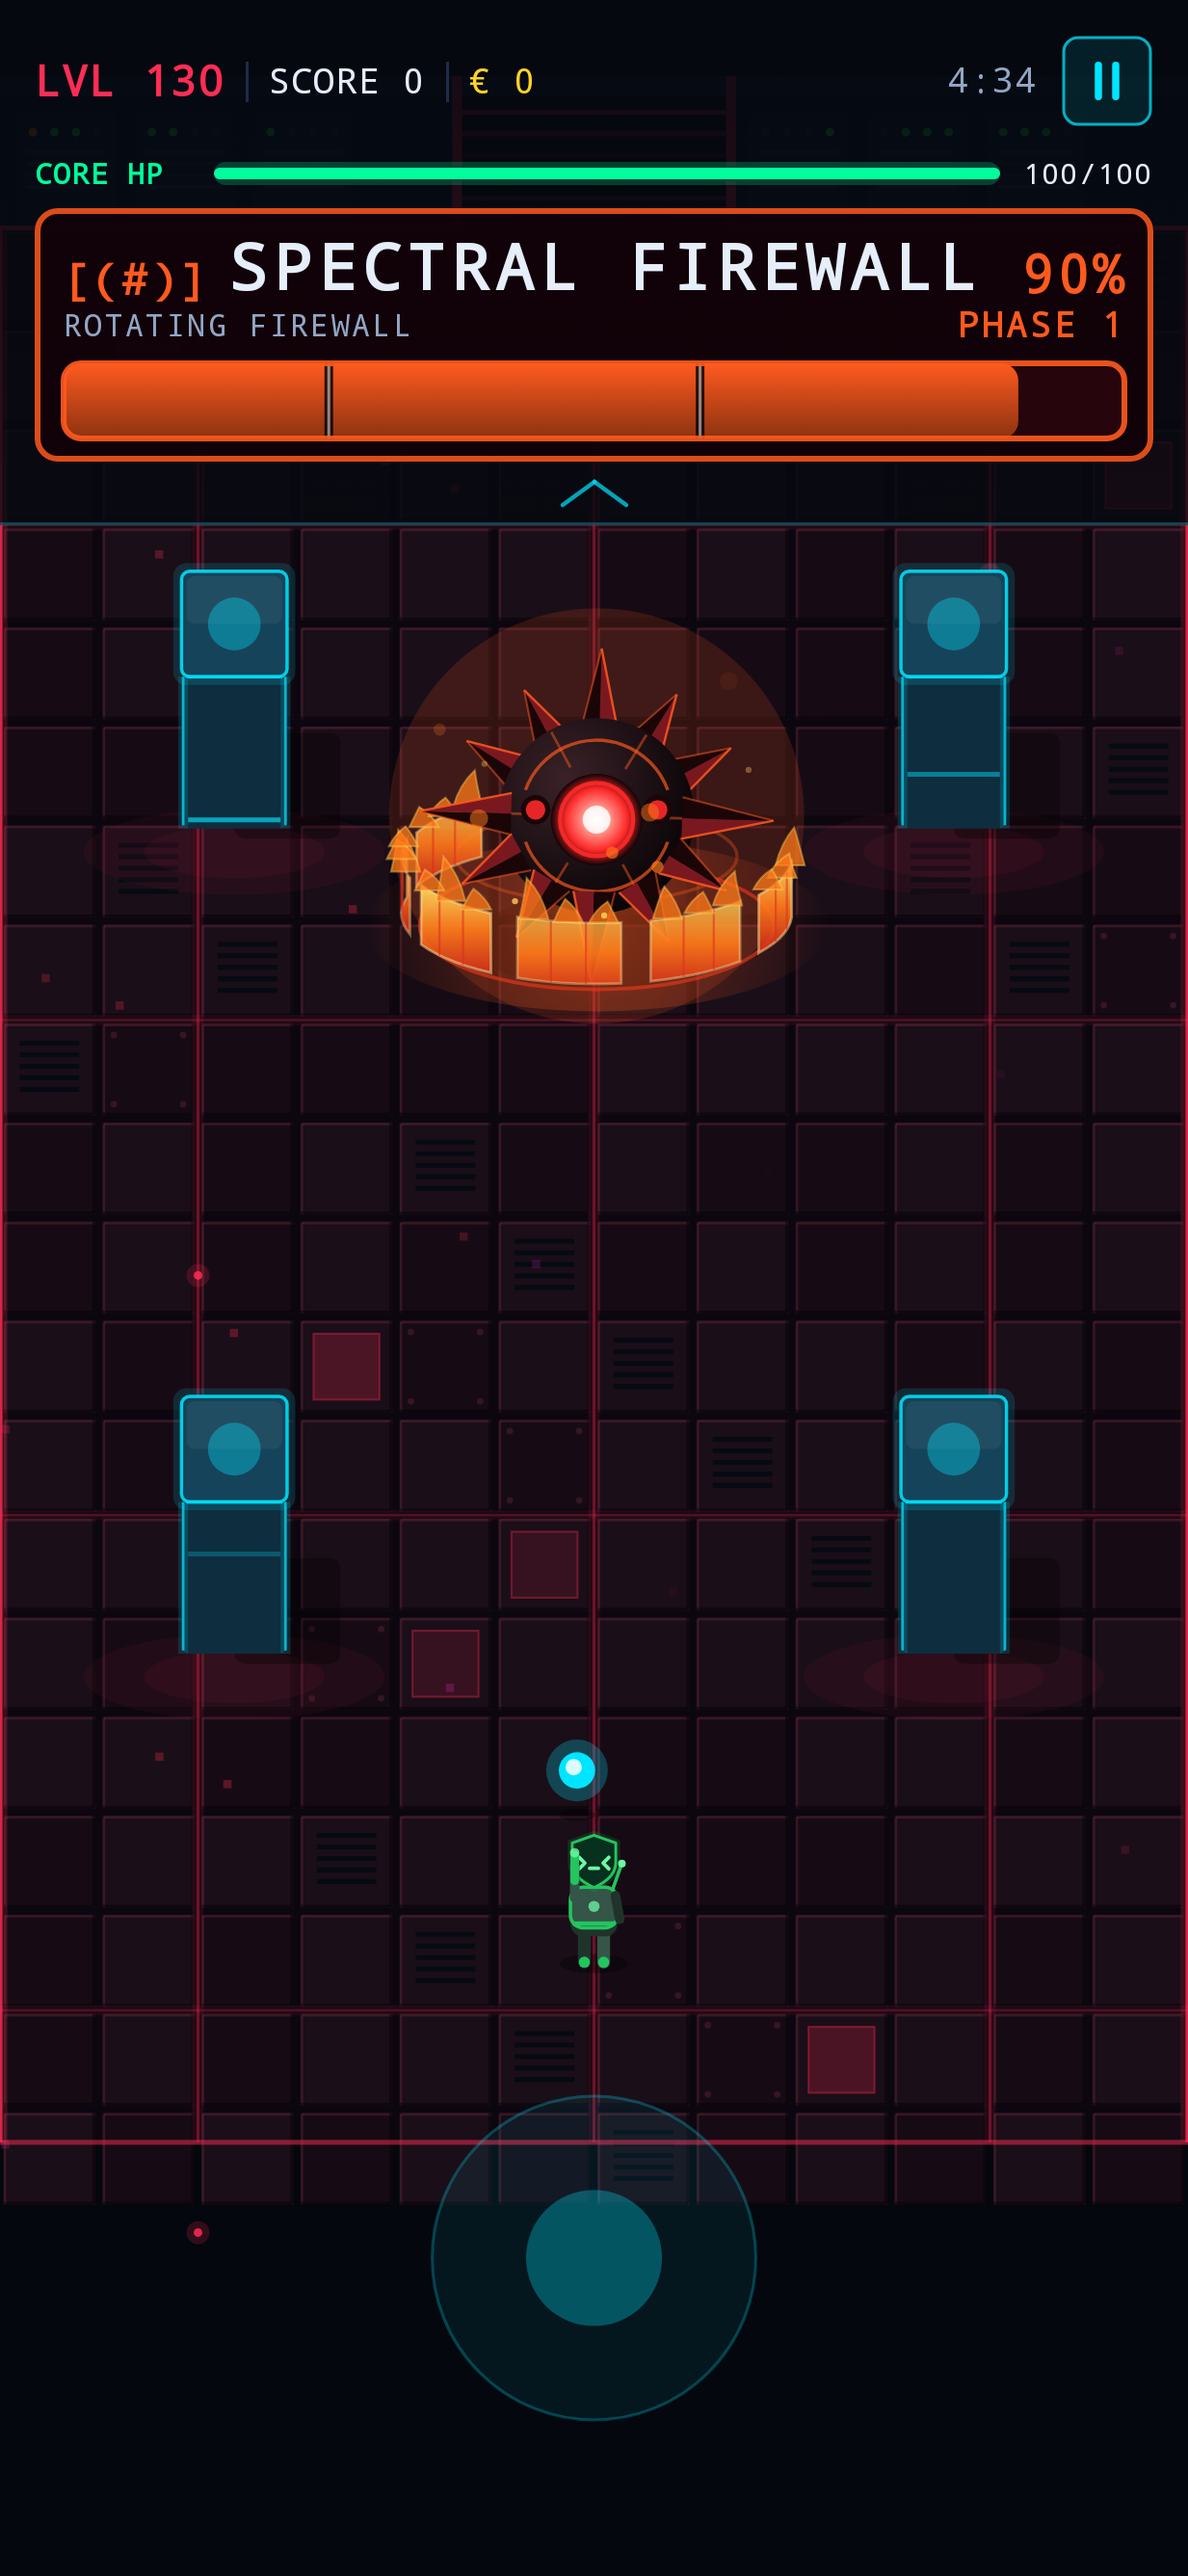
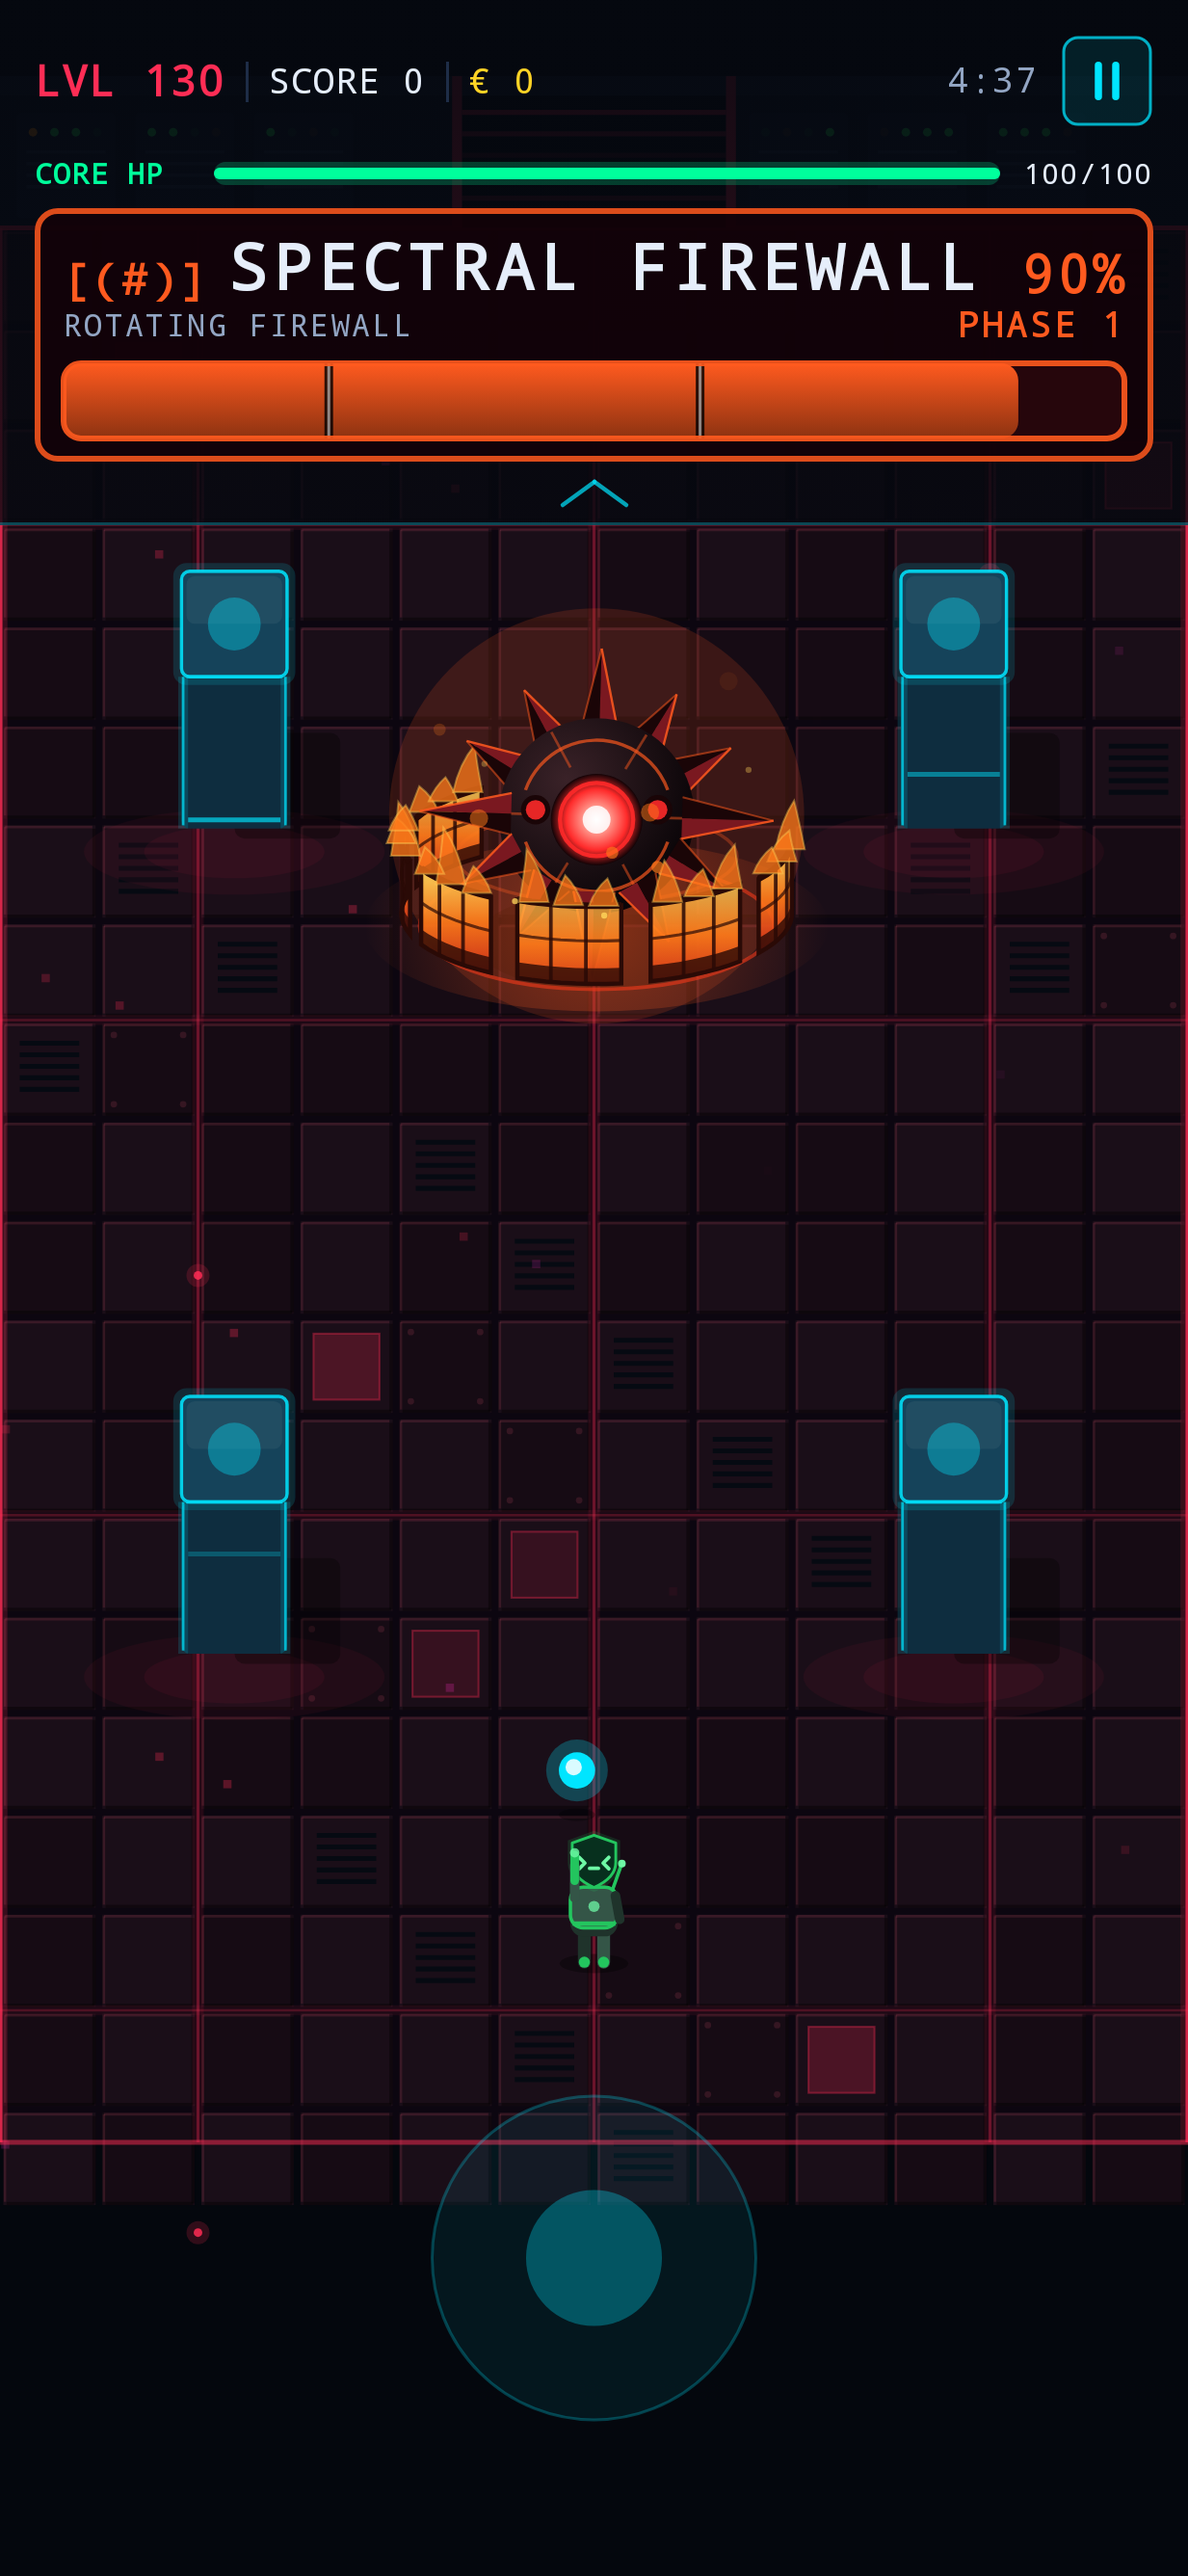
feat: Spectral Firewall revision 2 — taller firewall slabs with darker charred accents
Claude-Session: https://claude.ai/code/session_01J4fYSi9rfQR62SLnfyrDCN

Changed region(s): [[0.3082, 0.2795, 0.678, 0.4037]]

diff --git a/app/src/main/java/com/cyberoperative/game/ui/game/BossBodySpectralFirewall.kt b/app/src/main/java/com/cyberoperative/game/ui/game/BossBodySpectralFirewall.kt
@@ -26,6 +26,8 @@ internal object SpectralFirewallBody : BossBody {
     private val BRICK_HOT = Color(0xFFFFD45A)
     private val BRICK = Color(0xFFFF7A1A)
     private val BRICK_DEEP = Color(0xFFD9301A)
+    /** Charred accents on the firewall slabs. */
+    private val CHAR = Color(0xFF2A0A06)
 
     override fun DrawScope.draw(p: BossPose) {
         val r = p.radius
@@ -54,7 +56,8 @@ internal object SpectralFirewallBody : BossBody {
             val a1 = a0 + (6.283f / slots) * 0.78f
             val mid = (a0 + a1) / 2f
             if ((sin(mid) >= 0f) != front) return
-            val h = r * 0.5f * (0.85f + 0.15f * (sin(mid) + 1f) / 2f)
+            // Owner, 2026-10-10: "darker accents and be slightly taller".
+            val h = r * 0.64f * (0.85f + 0.15f * (sin(mid) + 1f) / 2f)
             val flick = 0.85f + 0.15f * sin(t * 11f + i * 2.3f)
             val n = 7
             val slab = Path()
@@ -71,14 +74,45 @@ internal object SpectralFirewallBody : BossBody {
             slab.close()
             val gy = ground - r * 0.1f + sin(mid) * ringR * squash
             drawPath(slab, Brush.verticalGradient(listOf(BRICK_HOT.copy(alpha = 0.95f * flick), BRICK.copy(alpha = 0.92f), BRICK_DEEP.copy(alpha = 0.88f)), startY = gy - h - r * 0.1f, endY = gy + r * 0.1f))
-            drawPath(slab, Color(0xFFFFE7A0).copy(alpha = 0.5f * flick), style = Stroke(1.6f))
-            // Brick seams and flames along the top edge.
+            // Charred base band along the bottom of the wall.
+            val base = Path()
+            for (k in 0..n) {
+                val a = a0 + (a1 - a0) * k / n
+                val x = p.cx + cos(a) * ringR
+                val y = ground - r * 0.1f + sin(a) * ringR * squash - h * 0.2f
+                if (k == 0) base.moveTo(x, y) else base.lineTo(x, y)
+            }
+            for (k in n downTo 0) {
+                val a = a0 + (a1 - a0) * k / n
+                base.lineTo(p.cx + cos(a) * ringR, ground - r * 0.1f + sin(a) * ringR * squash)
+            }
+            base.close()
+            drawPath(base, CHAR.copy(alpha = 0.8f))
+            // Dark mortar: vertical seams and a horizontal course line.
             for (k in 1 until 3) {
                 val a = a0 + (a1 - a0) * k / 3f
                 val x = p.cx + cos(a) * ringR
                 val yb = ground - r * 0.1f + sin(a) * ringR * squash
-                drawLine(BRICK_DEEP.copy(alpha = 0.55f), Offset(x, yb - h), Offset(x, yb), 1.3f)
+                drawLine(CHAR.copy(alpha = 0.85f), Offset(x, yb - h), Offset(x, yb), 2.2f)
             }
+            val course = Path()
+            for (k in 0..n) {
+                val a = a0 + (a1 - a0) * k / n
+                val x = p.cx + cos(a) * ringR
+                val y = ground - r * 0.1f + sin(a) * ringR * squash - h * 0.55f
+                if (k == 0) course.moveTo(x, y) else course.lineTo(x, y)
+            }
+            drawPath(course, CHAR.copy(alpha = 0.7f), style = Stroke(1.8f))
+            // Charred outline and a dark cap along the top edge.
+            drawPath(slab, CHAR, style = Stroke(2.6f))
+            val cap = Path()
+            for (k in 0..n) {
+                val a = a0 + (a1 - a0) * k / n
+                val x = p.cx + cos(a) * ringR
+                val y = ground - r * 0.1f + sin(a) * ringR * squash - h
+                if (k == 0) cap.moveTo(x, y) else cap.lineTo(x, y)
+            }
+            drawPath(cap, CHAR, style = Stroke(4f))
             for (k in 0 until 3) {
                 val a = a0 + (a1 - a0) * (k + 0.5f) / 3f
                 val x = p.cx + cos(a) * ringR

diff --git a/docs/BOSS_EXPANSION_LOG.md b/docs/BOSS_EXPANSION_LOG.md
@@ -233,7 +233,7 @@ CONTROLLER / AREA CONTROL / HUNTER on these four).
 | Rootkit Apostle | 2026-10-10 (`docs/bosses/designs/rootkit_apostle_*`) | ✅ **FINAL**: body (rev 2) and attacks approved — "Approved; start on Nullshade Specter" | "Darker body, eye can glow dim to bright back and forth slowly and is bright when attack" |
 | Nullshade Specter | 2026-10-10 (`docs/bosses/designs/nullshade_*`) | ✅ body approved (rev 2, traced from owner reference) — "those look good". Attacks built ("The level should be extremely dark") — ✅ **FINAL**: "Approved; start on Ransom King" | Rev 1 rejected: "Not a fan of that design… trace as best as possible. There shouldn't be an outline really. Think DARKNESS GHOST"; eyes blink + faint light; "Fainter glow around the eyes… sharper"; "bigger eyes please" |
 | Ransom King | 2026-10-10 (`docs/bosses/designs/ransom_king_*`) | ✅ body approved (rev 3, evil cursed crown) — "Approved, build its attacks". Attacks built and sent (atk1–atk7) | "can the crown be bigger, sharper… crooked?" → "Not the orientation of the crown… looks like a cursed crown. realign and then try a different design that looks like an evil crown" |
-| Spectral Firewall | 2026-10-10 (`docs/bosses/designs/spectral_firewall_*`) | ⏳ body waiting | Owner card: `boss-concepts/spectral_firewall_card.webp` |
+| Spectral Firewall | 2026-10-10 (`docs/bosses/designs/spectral_firewall_*`) | ⏳ revision 2 sent (taller slabs, darker accents) | Owner card: `boss-concepts/spectral_firewall_card.webp`; "the barriers should have darker accents and be slightly taller" |
 
 ---
 
@@ -330,3 +330,4 @@ CONTROLLER / AREA CONTROL / HUNTER on these four).
   - While the Firewall Ring attack is pushed out to the walls, the boss's own ring is gone: an
     exposed window.
   - Build this with the attacks.
+- 2026-10-10 — Spectral Firewall revision 2: slabs 28% taller, with a charred outline, dark mortar seams and course line, a dark base band and a dark top cap.
